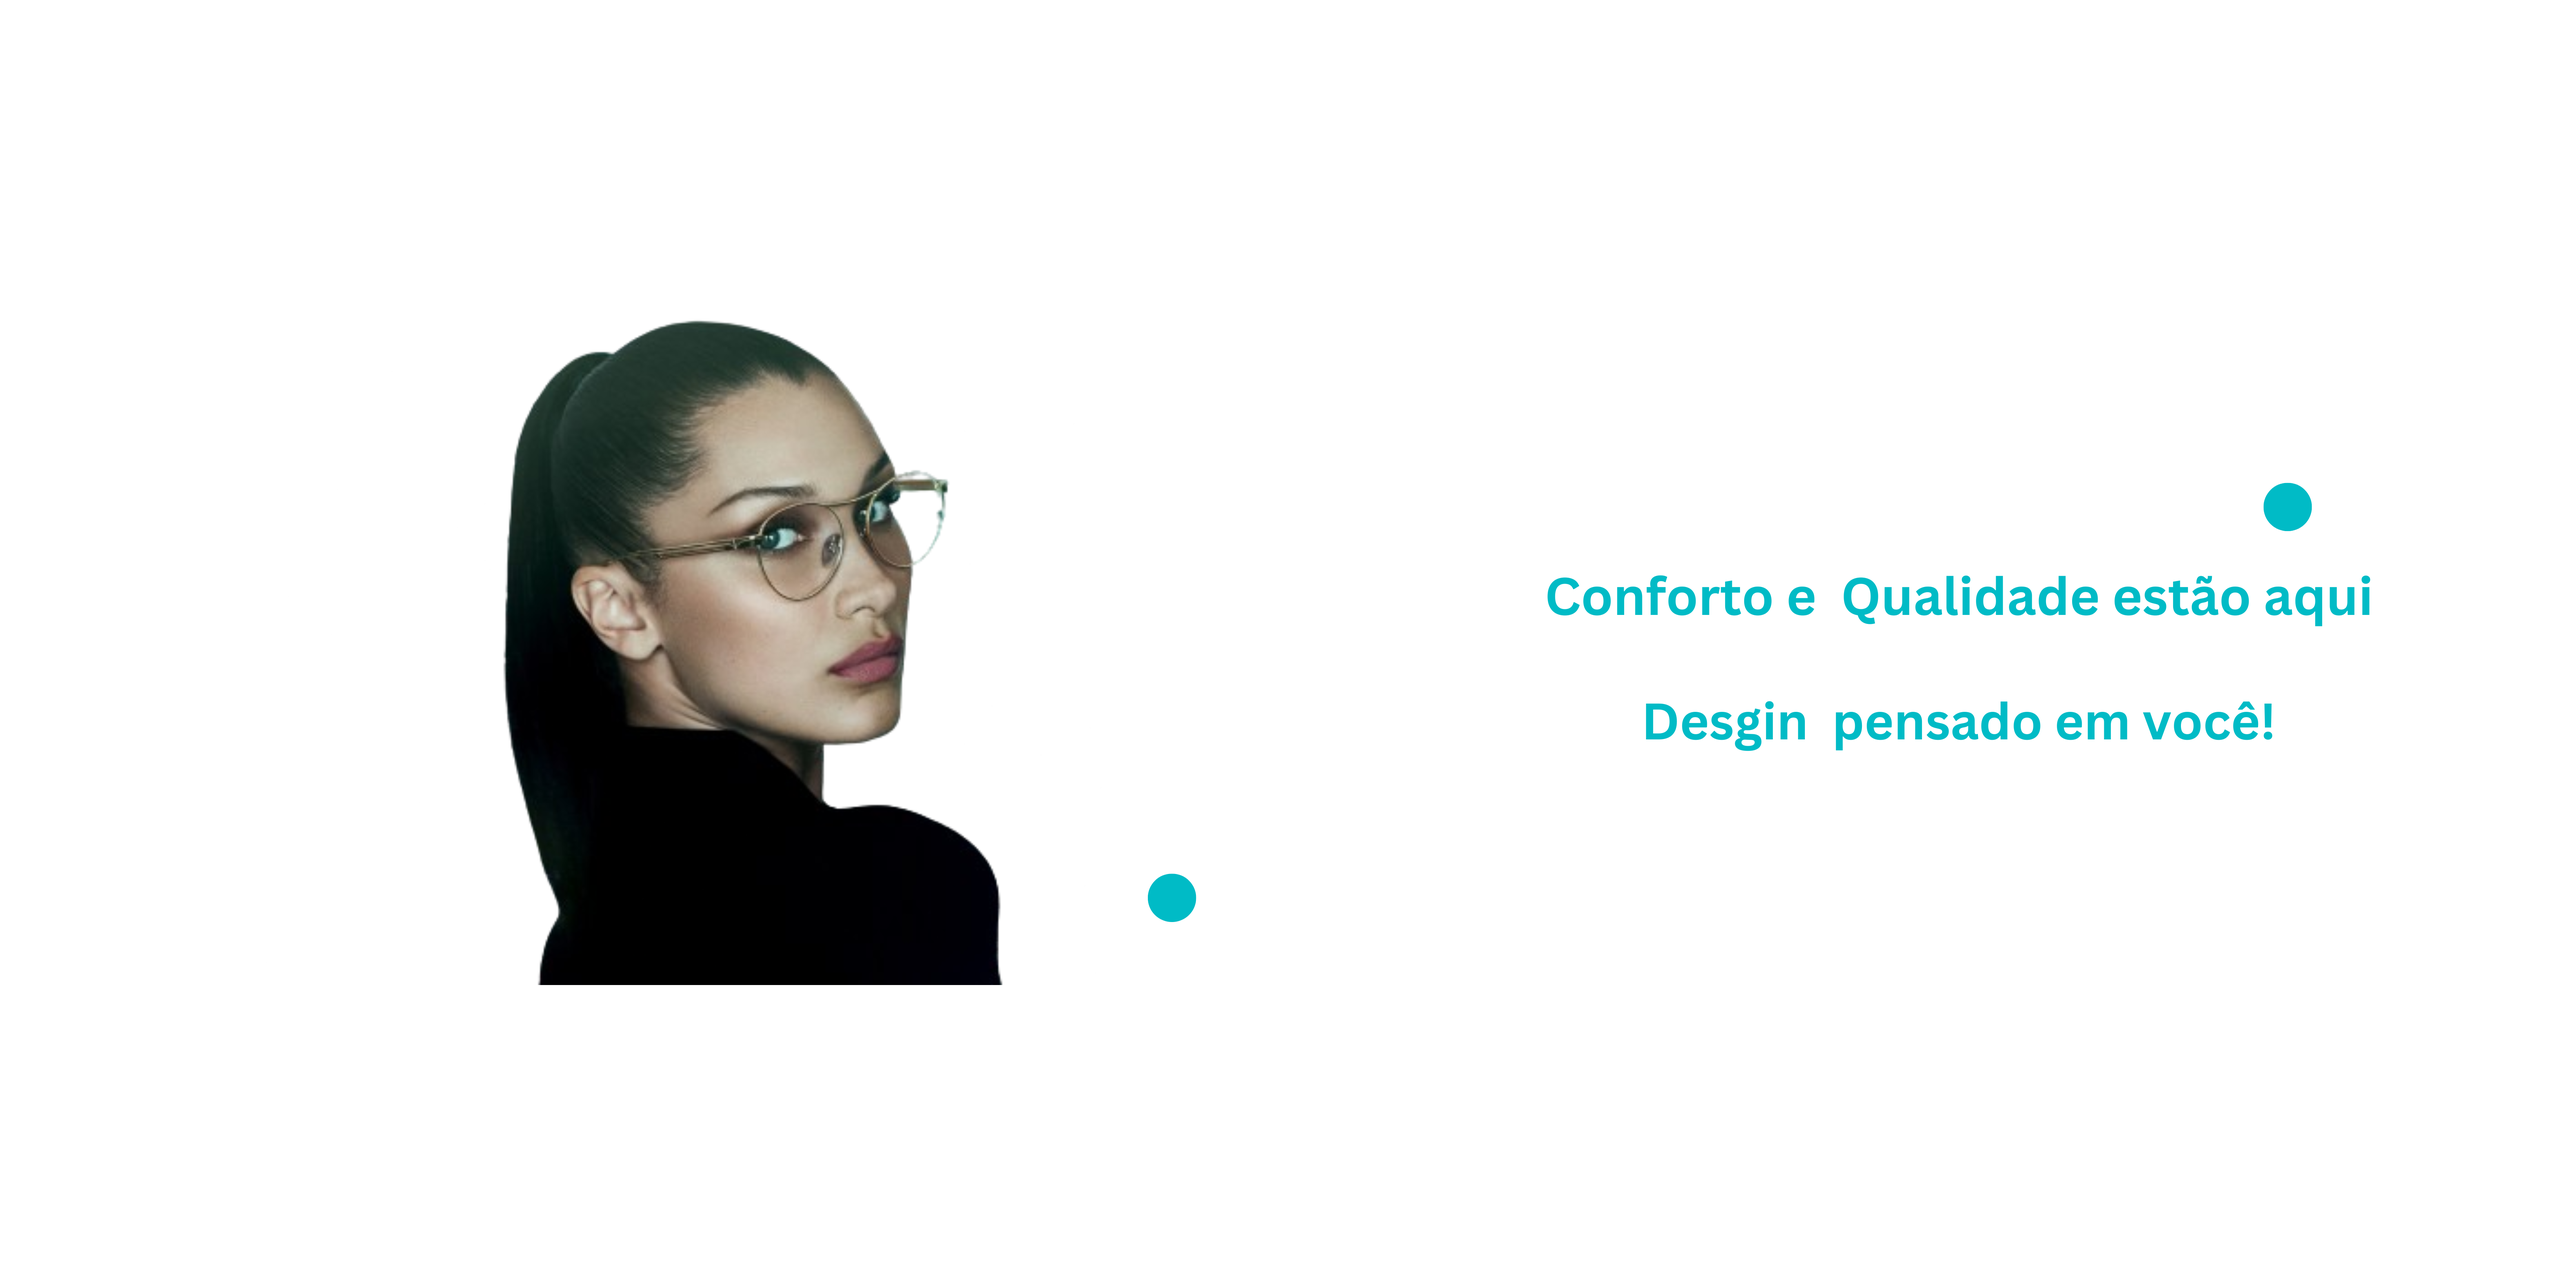
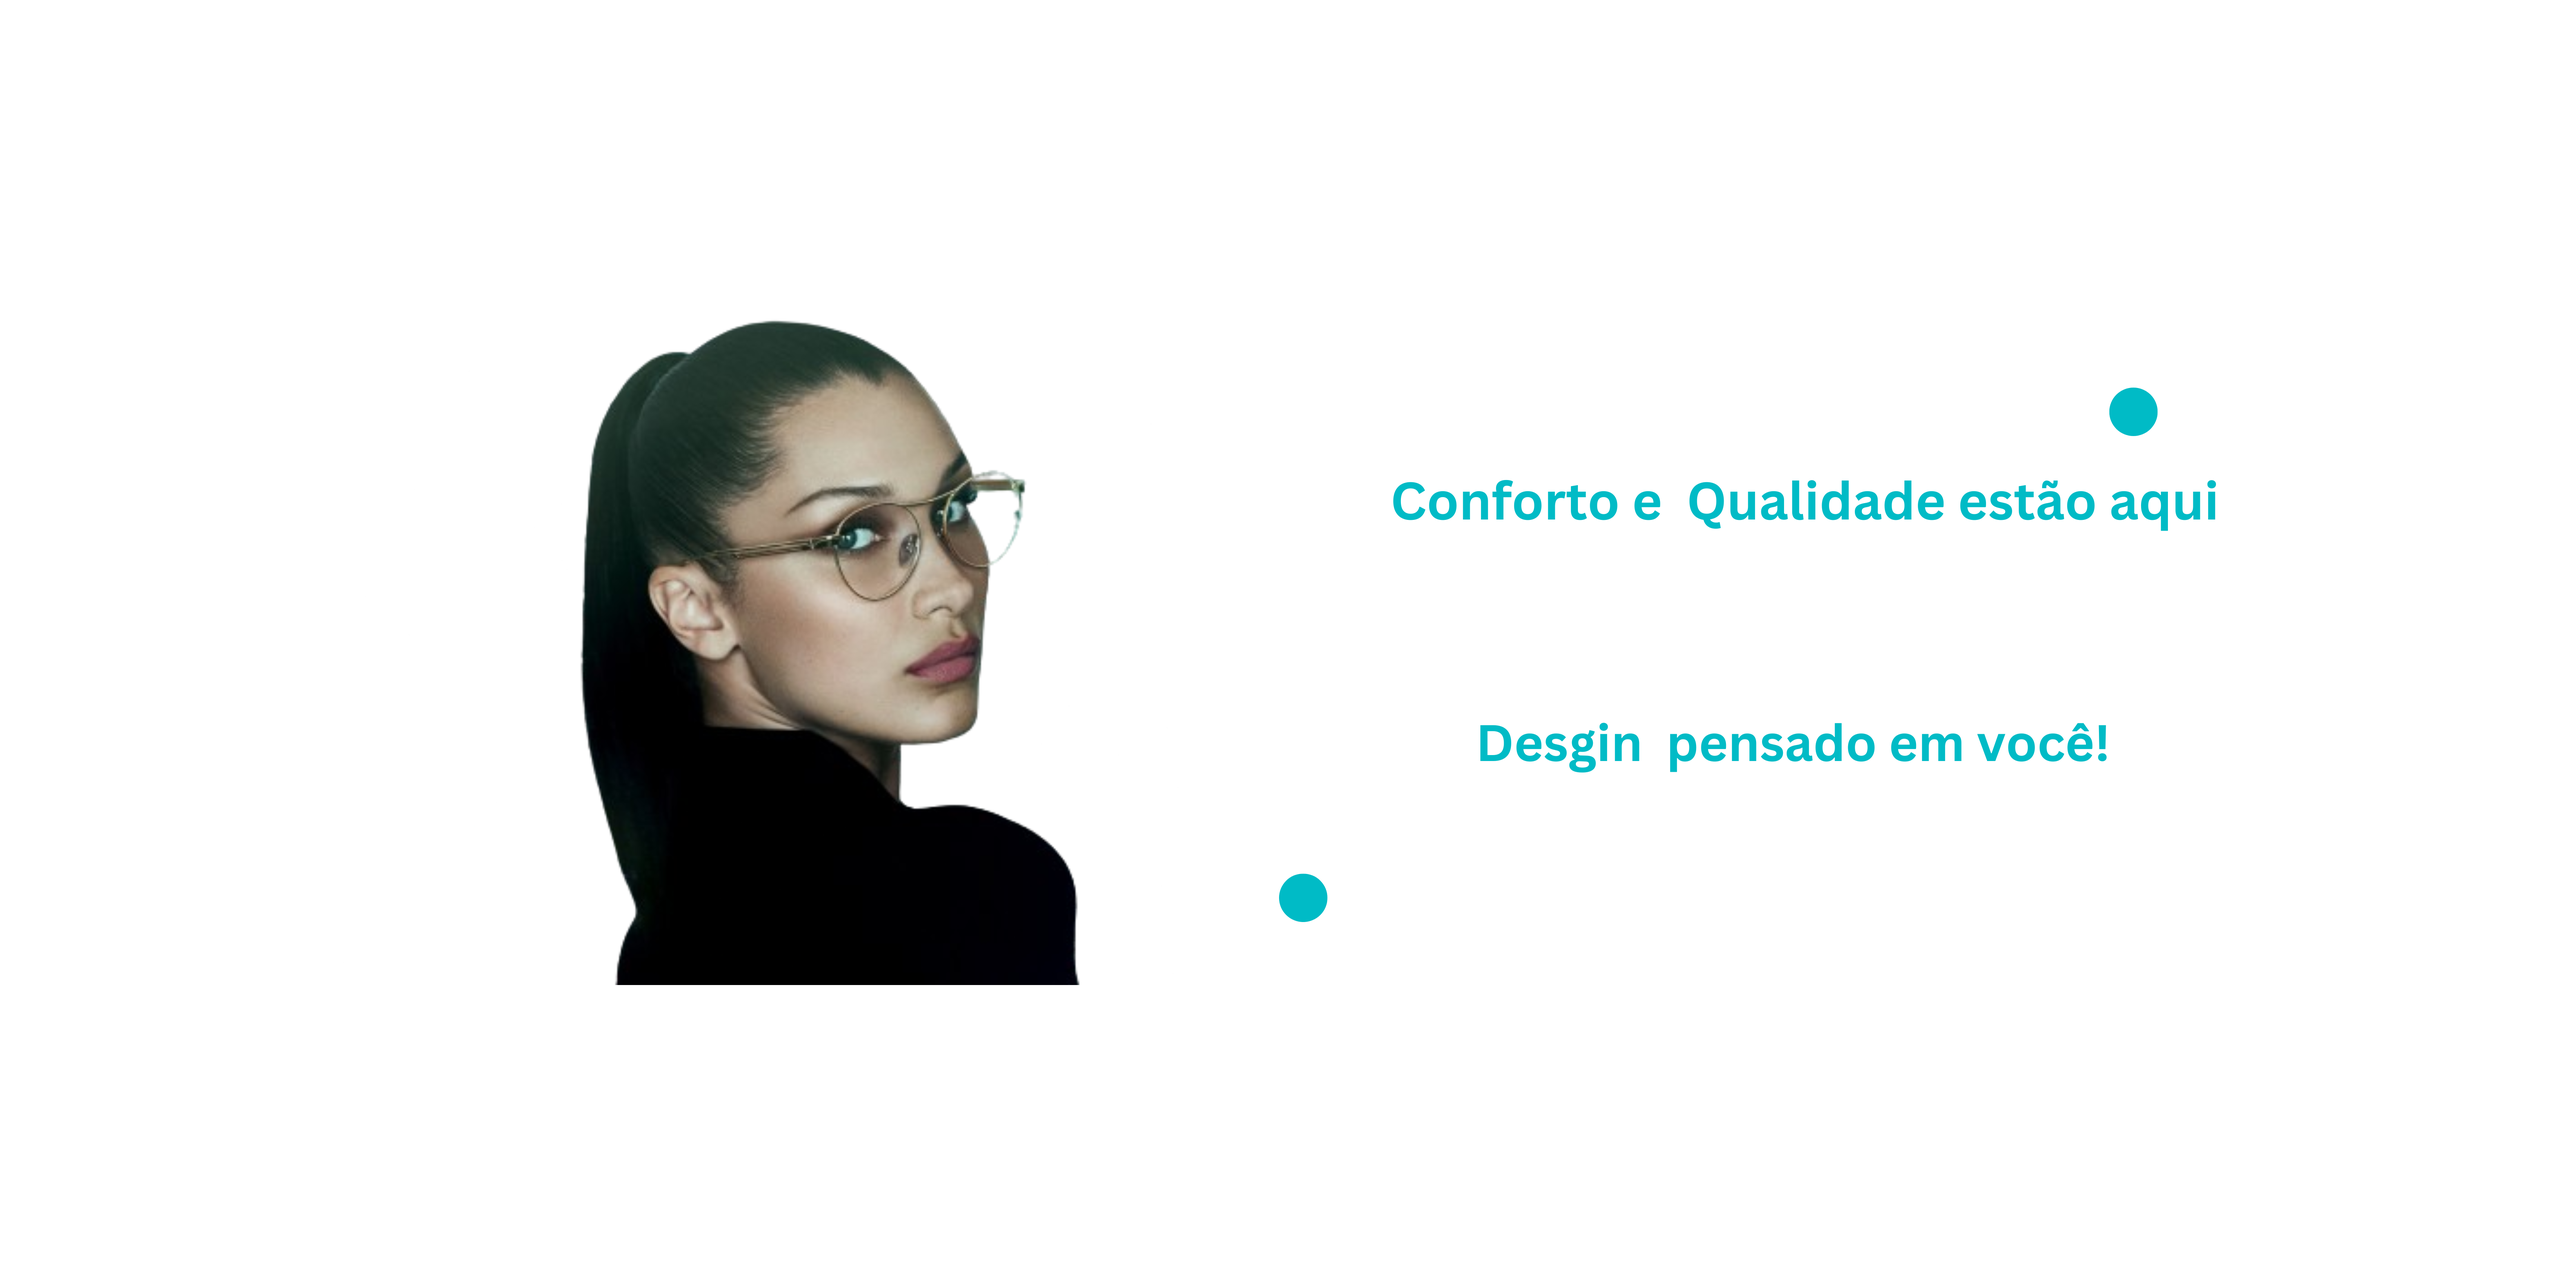
style : add new photos and new carrosel html and css for season home

diff --git a/src/css/style.css b/src/css/style.css
@@ -12,12 +12,6 @@ button {
 }
 
 .home {
-    background-image: url(../img/banner.png);
-    background-position: center;
-    background-attachment: fixed;
-    background-size: cover;
-    object-fit: contain;
-    background-repeat: no-repeat;
     display: flex;
     align-items: center;
     flex-direction: column;
@@ -25,6 +19,38 @@ button {
     justify-content: center;
     gap: 1rem;
     height: 100vh;
+    position: relative;
+}
+
+.home .slide {
+    background-position: center;
+    background-attachment: fixed;
+    background-size: cover;
+    object-fit: contain;
+    background-repeat: no-repeat;
+    width: 100vw;
+    height: 100%;
+    position: absolute;
+    opacity: 0;
+    transition: 0.2s ease-in-out;
+    display: flex;
+    justify-content: center;
+}
+
+.slide.mostrar {
+    opacity: 1;
+}
+
+.slide-1  {
+    background-image: url(../img/banner.png);
+}
+
+.slide-2 {
+    background-image: url(../img/prograganda.jpg);
+}
+
+.slide-3 {
+    background-image: url(../img/propraganda-2.jpg);
 }
 
 .home .container-home {
@@ -33,7 +59,27 @@ button {
     flex-direction: column;
     text-align: center;
     justify-content: center;
-    gap: 2rem;
+    gap: 1rem;
+}
+
+.home .seta-voltar, 
+.home .seta-avancar {
+    position: absolute;
+    z-index: 1;
+    transition: all 0.2s ease-in;
+}
+
+.home .seta-voltar {
+    right: 4%;
+    transform: rotateY(180deg);
+}
+
+.home .seta-avancar {
+    left: 4%;
+}
+
+.home .seta-avancar:hover{
+    transform: scale(1.2);
 }
 
 
@@ -41,33 +87,15 @@ button {
     font-family: var(--fonte-secundaria);
     color: var(--azul-escuro);
     font-size: 1.9rem;
-    font-weight: 500;
-}
-
-.home .btn {
-    border: none;
-    background: none;
-    background-color: var(--azul-claro);
-    color: var(--branco);
-    padding: 1rem;
-    border-radius: 45px;
-    font-size: 1.2rem;
-    transition: all 0.2s ease-in-out;
-}
-
-.home .btn:hover {
-    color: var(--azul-claro);
     font-weight: 600;
-    background-color: var(--branco);
-    border-radius: 25px;
-    border: 1px solid var(--azul-claro);
-    transform: scale(1.1);
-    transition: all 0.2s ease-in-out;
+    padding: 0.7rem;
 }
+
 
 .home p {
     font-size: 1.2rem;
     color: var(--azul-claro-acizentado);
+    font-weight: 600;
 }
 
 .sobre {

diff --git a/index.html b/index.html
@@ -46,16 +46,33 @@
            
         </header>
         <section class="home" id="home">
-            <!-- <div class="carossel">
-                <img src="./src/img/banner.png" alt="Imagem do Banner" class="imagem ativa">
-                <img src="" alt="" class="image">
-                <img src="" alt="" class="image">
-            </div> -->
-            <div class="container-home">
-                <h1 class="titulo-home">A Melhor Ótica De Belém!</h1>
-                <a href="#produtos"><button class="btn">Veja os Novos Produtos!</button></a>
-                <p>Veja nosso melhores produtos abaixo </p>
+            <a href="#" id="seta-voltar" class="seta-voltar opacidade">
+                <img src="./src/img/icons8-duplo-para-a-esquerda-100.png" alt="Imagem de uma Seta" class="imagem-seta">
+            </a>
+        
+            <div class="slide slide-1 mostrar">
+                <div class="container-home">
+                    <h1 class="titulo-home">A Melhor Ótica De Belém!</h1>
+                    <p>Veja nosso melhores produtos abaixo </p>
+                </div>
             </div>
+
+            <div class="slide slide-2">
+                <div class="container-home">
+                    <h1 class="titulo-home">A Melhor Ótica De Belém!</h1>
+                    <p>Veja nosso melhores produtos abaixo </p>
+                </div>
+            </div>
+
+            <div class="slide slide-3">
+                <div class="container-home">
+                    <h1 class="titulo-home">A Melhor Ótica De Belém!</h1>
+                    <p>Veja nosso melhores produtos abaixo </p>
+                </div>
+            </div>
+            <a href="#" id="seta-avancar" class="seta-avancar opacidade">
+                <img src="./src/img/icons8-duplo-para-a-esquerda-100.png" alt="Imagem de uma Seta" class="imagem-seta">
+            </a>
         </section>
         <section class="sobre" id="sobre">
             <div class="container-sobre">

diff --git a/src/css/responsive.css b/src/css/responsive.css
@@ -15,6 +15,17 @@
     }
 }
 
+@media (max-width: 425px) {
+    .home .slide  {
+        background-image: none;
+    }
+    
+    .home .seta-voltar, 
+    .home .seta-avancar {
+        display: none;
+    }
+}
+
 @media (max-width: 375px) {
     .sobre .container-sobre div .logo-belle {
         max-width: calc(300 / 16 * 1rem);
